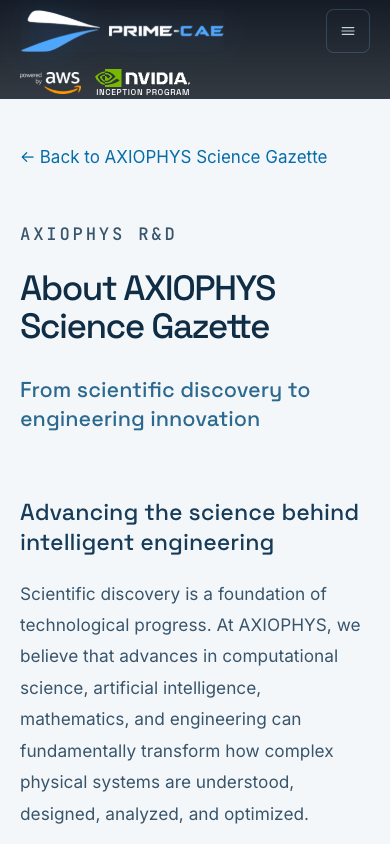
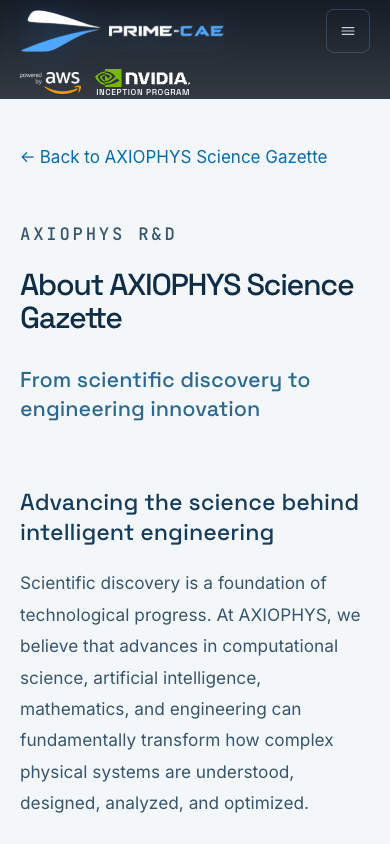
Reduce Science Gazette about heading size

Changed region(s): [[0.0308, 0.5853, 0.9231, 0.9858], [0.0308, 0.3081, 0.9231, 0.4005], [0.0308, 0.4313, 0.8, 0.5237]]

diff --git a/research.html b/research.html
@@ -1,4 +1,4 @@
-<!doctype html><html lang="en"><head><meta charset="utf-8"><meta name="viewport" content="width=device-width,initial-scale=1"><link rel="icon" type="image/png" sizes="16x16" href="assets/favicon-16.png?v=2"><link rel="icon" type="image/png" sizes="32x32" href="assets/favicon-32.png?v=2"><link rel="icon" type="image/png" sizes="48x48" href="assets/favicon-48.png?v=2"><link rel="icon" type="image/png" sizes="192x192" href="assets/favicon-192.png?v=2"><link rel="apple-touch-icon" sizes="180x180" href="assets/favicon-180.png?v=2"><script>if ('scrollRestoration' in history) history.scrollRestoration='manual';addEventListener('pageshow',function(){if(!location.hash)scrollTo({top:0,left:0,behavior:'instant'})});</script><title>AXIOPHYS Science Gazette | Research &amp; Scientific Publications</title><meta name="description" content="Explore AXIOPHYS Science Gazette, the scientific communication platform of AXIOPHYS R&amp;D, featuring computational science, engineering demonstrations, research papers and PRIME-CAE manuals."><link rel="canonical" href="https://www.prime-cae.com/research.html"><meta name="theme-color" content="#030a14"><meta property="og:title" content="AXIOPHYS Science Gazette | Research &amp; Scientific Publications"><meta property="og:description" content="Explore AXIOPHYS Science Gazette, the scientific communication platform of AXIOPHYS R&amp;D, featuring computational science, engineering demonstrations, research papers and PRIME-CAE manuals."><meta property="og:url" content="https://www.prime-cae.com/research.html"><meta property="og:type" content="website"><meta property="og:image" content="https://www.prime-cae.com/media/gazette/science-gazette-poster.jpg"><link href="https://fonts.googleapis.com/css2?family=Space+Grotesk:wght@400;500;600&family=Inter:wght@400;500;600&family=JetBrains+Mono:wght@400;500&display=swap" rel="stylesheet"><link rel="stylesheet" href="css/tokens.css"><link rel="stylesheet" href="css/base.css"><link rel="stylesheet" href="css/layout.css"><link rel="stylesheet" href="css/components.css"><link rel="stylesheet" href="css/hero.css?v=hero-rail-1"><link rel="stylesheet" href="css/sections.css"><link rel="stylesheet" href="css/mobile.css?v=mobile-menu-right-1"><link rel="stylesheet" href="css/news.css?v=header-match-1"><link rel="stylesheet" href="css/research.css?v=13"></head><body class="gazette-page"><header class="nav" id="nav" data-env="navy">
+<!doctype html><html lang="en"><head><meta charset="utf-8"><meta name="viewport" content="width=device-width,initial-scale=1"><link rel="icon" type="image/png" sizes="16x16" href="assets/favicon-16.png?v=2"><link rel="icon" type="image/png" sizes="32x32" href="assets/favicon-32.png?v=2"><link rel="icon" type="image/png" sizes="48x48" href="assets/favicon-48.png?v=2"><link rel="icon" type="image/png" sizes="192x192" href="assets/favicon-192.png?v=2"><link rel="apple-touch-icon" sizes="180x180" href="assets/favicon-180.png?v=2"><script>if ('scrollRestoration' in history) history.scrollRestoration='manual';addEventListener('pageshow',function(){if(!location.hash)scrollTo({top:0,left:0,behavior:'instant'})});</script><title>AXIOPHYS Science Gazette | Research &amp; Scientific Publications</title><meta name="description" content="Explore AXIOPHYS Science Gazette, the scientific communication platform of AXIOPHYS R&amp;D, featuring computational science, engineering demonstrations, research papers and PRIME-CAE manuals."><link rel="canonical" href="https://www.prime-cae.com/research.html"><meta name="theme-color" content="#030a14"><meta property="og:title" content="AXIOPHYS Science Gazette | Research &amp; Scientific Publications"><meta property="og:description" content="Explore AXIOPHYS Science Gazette, the scientific communication platform of AXIOPHYS R&amp;D, featuring computational science, engineering demonstrations, research papers and PRIME-CAE manuals."><meta property="og:url" content="https://www.prime-cae.com/research.html"><meta property="og:type" content="website"><meta property="og:image" content="https://www.prime-cae.com/media/gazette/science-gazette-poster.jpg"><link href="https://fonts.googleapis.com/css2?family=Space+Grotesk:wght@400;500;600&family=Inter:wght@400;500;600&family=JetBrains+Mono:wght@400;500&display=swap" rel="stylesheet"><link rel="stylesheet" href="css/tokens.css"><link rel="stylesheet" href="css/base.css"><link rel="stylesheet" href="css/layout.css"><link rel="stylesheet" href="css/components.css"><link rel="stylesheet" href="css/hero.css?v=hero-rail-1"><link rel="stylesheet" href="css/sections.css"><link rel="stylesheet" href="css/mobile.css?v=mobile-menu-right-1"><link rel="stylesheet" href="css/news.css?v=header-match-1"><link rel="stylesheet" href="css/research.css?v=14"></head><body class="gazette-page"><header class="nav" id="nav" data-env="navy">
   <div class="progress" aria-hidden="true"><i id="progressBar"></i></div>
   <div class="shell nav__in">
     <a class="nav__brand" href="https://www.prime-cae.com/" aria-label="PRIME-CAE home">

diff --git a/about-science-gazette.html b/about-science-gazette.html
@@ -1,4 +1,4 @@
-<!doctype html><html lang="en"><head><meta charset="utf-8"><meta name="viewport" content="width=device-width,initial-scale=1"><link rel="icon" type="image/png" sizes="16x16" href="assets/favicon-16.png?v=2"><link rel="icon" type="image/png" sizes="32x32" href="assets/favicon-32.png?v=2"><link rel="icon" type="image/png" sizes="48x48" href="assets/favicon-48.png?v=2"><link rel="icon" type="image/png" sizes="192x192" href="assets/favicon-192.png?v=2"><link rel="apple-touch-icon" sizes="180x180" href="assets/favicon-180.png?v=2"><title>About AXIOPHYS Science Gazette | AXIOPHYS R&amp;D</title><meta name="description" content="The research philosophy behind AXIOPHYS Science Gazette and its connection between scientific discovery and engineering innovation."><link rel="canonical" href="https://www.prime-cae.com/about-science-gazette.html"><meta name="theme-color" content="#030a14"><meta property="og:title" content="About AXIOPHYS Science Gazette | AXIOPHYS R&amp;D"><meta property="og:description" content="The research philosophy behind AXIOPHYS Science Gazette and its connection between scientific discovery and engineering innovation."><meta property="og:url" content="https://www.prime-cae.com/about-science-gazette.html"><meta property="og:type" content="website"><meta property="og:image" content="https://www.prime-cae.com/media/gazette/science-gazette-poster.jpg"><link href="https://fonts.googleapis.com/css2?family=Space+Grotesk:wght@400;500;600&family=Inter:wght@400;500;600&family=JetBrains+Mono:wght@400;500&display=swap" rel="stylesheet"><link rel="stylesheet" href="css/tokens.css"><link rel="stylesheet" href="css/base.css"><link rel="stylesheet" href="css/layout.css"><link rel="stylesheet" href="css/components.css"><link rel="stylesheet" href="css/hero.css?v=hero-rail-1"><link rel="stylesheet" href="css/sections.css"><link rel="stylesheet" href="css/mobile.css?v=mobile-menu-right-1"><link rel="stylesheet" href="css/research.css?v=13"></head><body class="gazette-page"><header class="nav" id="nav" data-env="navy">
+<!doctype html><html lang="en"><head><meta charset="utf-8"><meta name="viewport" content="width=device-width,initial-scale=1"><link rel="icon" type="image/png" sizes="16x16" href="assets/favicon-16.png?v=2"><link rel="icon" type="image/png" sizes="32x32" href="assets/favicon-32.png?v=2"><link rel="icon" type="image/png" sizes="48x48" href="assets/favicon-48.png?v=2"><link rel="icon" type="image/png" sizes="192x192" href="assets/favicon-192.png?v=2"><link rel="apple-touch-icon" sizes="180x180" href="assets/favicon-180.png?v=2"><title>About AXIOPHYS Science Gazette | AXIOPHYS R&amp;D</title><meta name="description" content="The research philosophy behind AXIOPHYS Science Gazette and its connection between scientific discovery and engineering innovation."><link rel="canonical" href="https://www.prime-cae.com/about-science-gazette.html"><meta name="theme-color" content="#030a14"><meta property="og:title" content="About AXIOPHYS Science Gazette | AXIOPHYS R&amp;D"><meta property="og:description" content="The research philosophy behind AXIOPHYS Science Gazette and its connection between scientific discovery and engineering innovation."><meta property="og:url" content="https://www.prime-cae.com/about-science-gazette.html"><meta property="og:type" content="website"><meta property="og:image" content="https://www.prime-cae.com/media/gazette/science-gazette-poster.jpg"><link href="https://fonts.googleapis.com/css2?family=Space+Grotesk:wght@400;500;600&family=Inter:wght@400;500;600&family=JetBrains+Mono:wght@400;500&display=swap" rel="stylesheet"><link rel="stylesheet" href="css/tokens.css"><link rel="stylesheet" href="css/base.css"><link rel="stylesheet" href="css/layout.css"><link rel="stylesheet" href="css/components.css"><link rel="stylesheet" href="css/hero.css?v=hero-rail-1"><link rel="stylesheet" href="css/sections.css"><link rel="stylesheet" href="css/mobile.css?v=mobile-menu-right-1"><link rel="stylesheet" href="css/research.css?v=14"></head><body class="gazette-page"><header class="nav" id="nav" data-env="navy">
   <div class="progress" aria-hidden="true"><i id="progressBar"></i></div>
   <div class="shell nav__in">
     <a class="nav__brand" href="#top" aria-label="PRIME-CAE home">

diff --git a/css/research.css b/css/research.css
@@ -19,7 +19,7 @@
 .gazette-categories--floating a[aria-current="true"]{color:#086ca8}
 .gazette-intro{padding-block:clamp(64px,8vw,120px);scroll-margin-top:calc(var(--gazette-nav-h,var(--nav-h)) + 70px);border-bottom:1px solid #cad9e3}
 .gazette-intro>*{max-width:78ch}.gazette-eyebrow{font:500 .78rem/1.5 var(--font-mono);letter-spacing:.16em;text-transform:uppercase;color:#0875a9;margin-bottom:18px}
-.gazette-intro h1,.gazette-article h1{font:500 clamp(2.2rem,5vw,4.6rem)/1.08 var(--font-sans);letter-spacing:-.045em;color:#102d46;margin:0 0 14px;max-width:18ch}
+.gazette-intro h1,.gazette-article h1{font:500 clamp(1.9rem,3.5vw,3.4rem)/1.08 var(--font-sans);letter-spacing:-.045em;color:#102d46;margin:0 0 14px;max-width:18ch}
 .gazette-intro h2{font:500 clamp(1.3rem,2vw,1.85rem)/1.3 var(--font-sans);color:#46708d;margin-bottom:32px}
 .gazette-intro p:not(.gazette-eyebrow){font-size:clamp(1rem,1.35vw,1.14rem);line-height:1.8;color:#36546b;margin:0 0 20px}
 .gazette-link{display:inline-flex;align-items:center;gap:10px;color:#075e96;font:600 1rem/1.5 var(--font-sans);padding:12px 0;border-bottom:1px solid currentColor;margin-top:16px}
